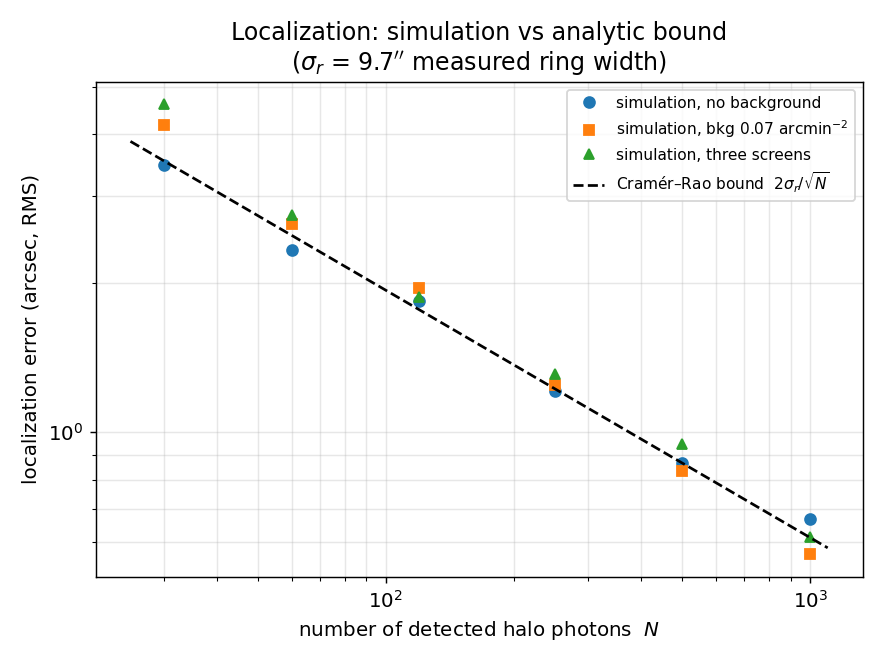
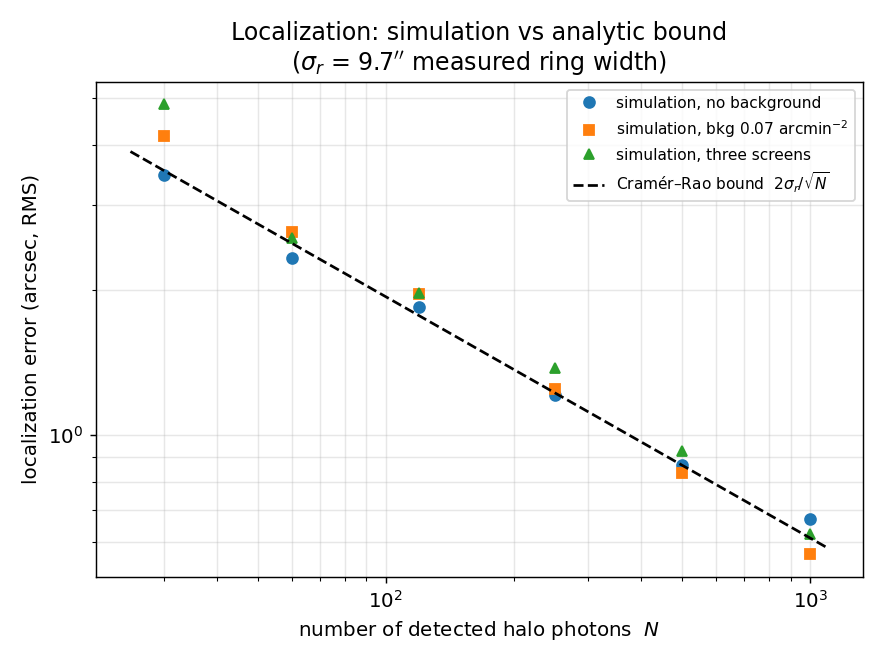
Add a pinned environment and a one-command rebuild; regenerate Figure 3
requirements.txt and environment.yml pin the versions that produced the
committed results (Python 3.10, NumPy 2.2.6, Matplotlib 3.10.9). The new
Makefile has four targets:
- make: all figures and the PDF, from the stored results;
- make test: the photon-yield unit test and the geometry checks;
- make paper: the PDF alone;
- make results: reruns every Monte Carlo with recorded seeds.
Checked: make figures reproduces every committed figure byte for byte, and
the seeded multi-screen, detection and calibration runs reproduce the stored
results exactly.

The check caught one stale figure: Figure 3 still showed the three-screen
points from before the 28 September yield fix. It is regenerated, so it
matches Table 1 again, and the PDF is rebuilt. The README documents all
this, fixes the selfcal_mc.py usage line, and adds Figure 3 to the
correction note.

diff --git a/README.md b/README.md
@@ -15,8 +15,9 @@ under-weighted (the 60 pc screen of the fiducial sightline by a factor
 400/60 ≈ 6.7 relative to the 400 pc screen). The simulator and the likelihood
 template are fixed, `code/test_yields.py` checks them, and every result that
 uses more than one screen has been regenerated (Table 1's three-screen
-column, Figures 2, 5–8, Sections 3.2 and 3.5–3.8). Single-screen results were
-unaffected. The conclusions stand: the multi-screen localization numbers
+column, Figures 2, 3 and 5–8, Sections 3.2 and 3.5–3.8; Figure 3's
+three-screen points were missed on 28 September and regenerated on
+1 October). Single-screen results were unaffected. The conclusions stand: the multi-screen localization numbers
 moved within Monte Carlo noise, the tomography is unchanged, and the
 realistic sightline of Figure 7 now recovers its nearby clouds, which the old
 weighting had suppressed. Seeds for the regenerated runs: 2809 (Table 1),
@@ -48,12 +49,15 @@ quantifies the achievable precision for realistic, clumpy sightlines:
 ## Contents
 
 ```
-paper.md        paper source (Markdown + LaTeX math) — single source of truth
-paper.pdf       typeset PDF
-build.sh        rebuilds paper.tex / paper.pdf from paper.md
-figures/        the 11 figures, all generated by code/
-results/        Monte-Carlo outputs (JSON)
-code/           simulation and analysis code (NumPy only; Matplotlib for figures)
+paper.md          paper source (Markdown + LaTeX math) — single source of truth
+paper.pdf         typeset PDF
+Makefile          one-command rebuild (see below)
+build.sh          rebuilds paper.tex / paper.pdf from paper.md
+requirements.txt  pinned Python dependencies (pip)
+environment.yml   the same, as a conda environment
+figures/          the 11 figures, all generated by code/
+results/          Monte-Carlo outputs (JSON)
+code/             simulation and analysis code (NumPy only; Matplotlib for figures)
 ```
 
 Every figure and every quoted number in the paper is produced by running the
@@ -61,13 +65,29 @@ code in `code/`. No external data or network access is required.
 
 ## Requirements
 
-Python 3 with NumPy and Matplotlib. Rebuilding the paper additionally needs
-`pandoc` and `pdflatex`.
+Python 3.10 with NumPy and Matplotlib, at the versions pinned in
+`requirements.txt` (or `environment.yml` for conda). Rebuilding the paper
+additionally needs `pandoc` and `pdflatex`.
 
 ## Reproducing the results
 
-Run the scripts from inside `code/`. They import the shared module `halo.py`,
-read/write JSON in `../results/`, and write figures to `../figures/`.
+```sh
+pip install -r requirements.txt   # or: conda env create -f environment.yml
+make            # all figures and paper.pdf, from the stored results (~2 min)
+make test       # unit test for the photon yields + ring-geometry checks
+make results    # rerun every Monte Carlo from scratch (~10 min; overwrites results/)
+```
+
+Every figure script fixes its random seed, so `make` reproduces the committed
+figures exactly from the stored results. `make results` reproduces the
+multi-screen runs, the detection fractions and the calibration run exactly;
+the original seeds of the single-screen Table 1 columns, the single-screen
+self-calibration and the background sweep were not recorded, so those
+reproduce within Monte Carlo noise. The Makefile lists every command.
+
+To run individual steps, run the scripts from inside `code/`. They import the
+shared module `halo.py`, read/write JSON in `../results/`, and write figures to
+`../figures/`.
 
 **Core module**
 
@@ -81,7 +101,8 @@ read/write JSON in `../results/`, and write figures to `../figures/`.
   accumulates the Table 1 trials in chunks and keeps every individual trial in
   `mc_acc_<cfg>.json`, so the table can be recomputed from the raw values
   (K = 120 per photon count in the paper)
-- `selfcal_mc.py <single|multi> [K]` → `selfcal_results.json`
+- `selfcal_mc.py run <single|multi> <K> <seed>`, then `finalize` →
+  `selfcal_results.json` (raw trials kept in `selfcal_acc_<cfg>.json`)
 - `detect_mc.py <bkg> [K]` → `detect.json`
 - `vsbkg_smooth.py <seed> [K]` → `vsbkg_acc.json` (accumulates)
 - `calib.py` → `calib.json` (bias / coverage)
@@ -113,7 +134,7 @@ exists in `../results/`; run the corresponding data script first.
 ## Rebuilding the paper
 
 ```sh
-bash build.sh                                   # -> paper.tex, paper.pdf
+make paper      # or: bash build.sh  -> paper.tex, paper.pdf
 pandoc paper.md -o paper.docx
 ```
 
